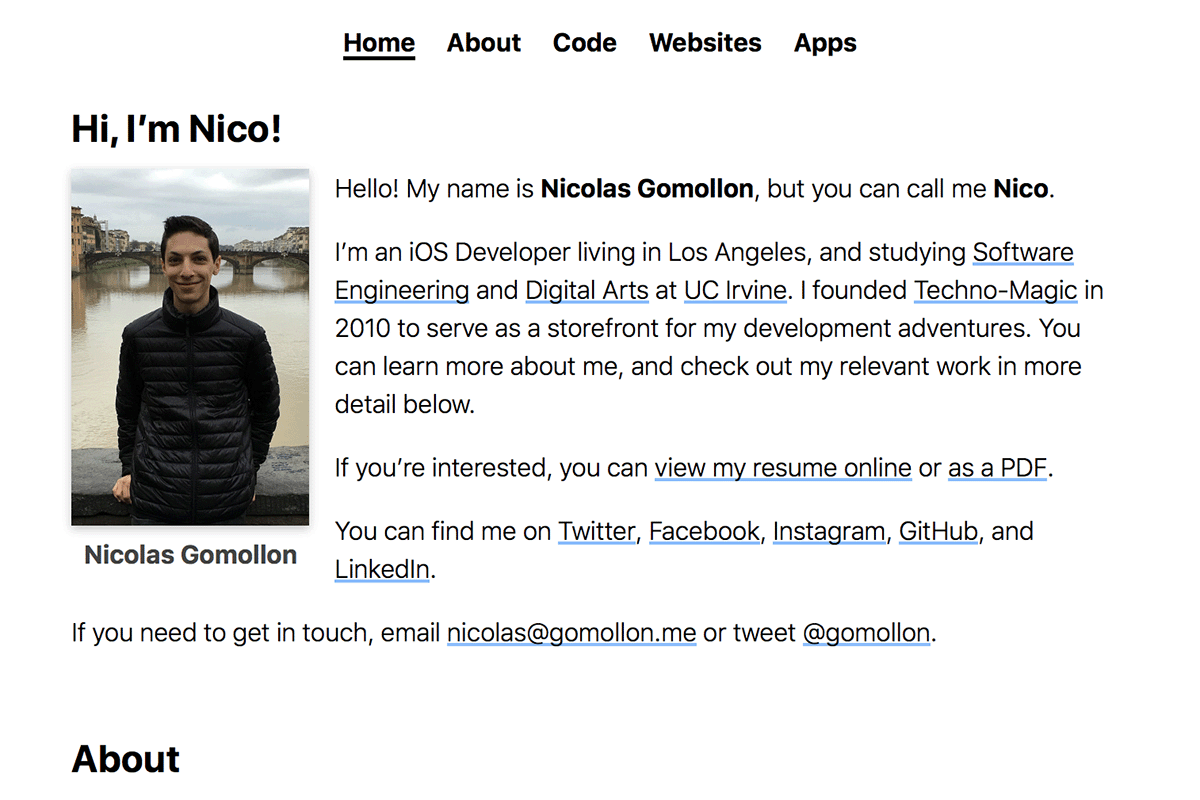
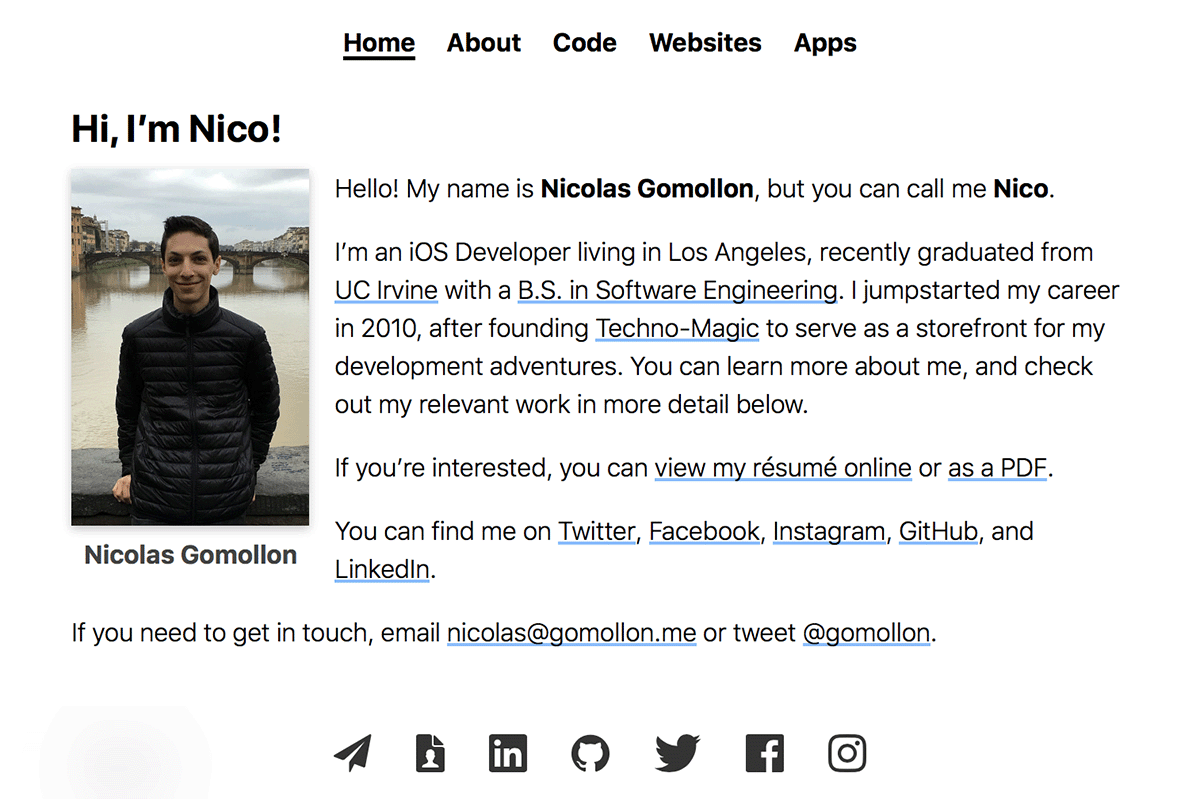
Updated my webpage.

diff --git a/nicolas/index.html b/nicolas/index.html
@@ -34,7 +34,7 @@
 				<figcaption>Nicolas Gomollon</figcaption>
 			</figure>
 			<p>Hello! My name is <strong>Nicolas Gomollon</strong>, but you can call me <strong>Nico</strong>.</p>
-			<p>I&rsquo;m an iOS Developer living in Los Angeles, and studying <a target="_blank" href="http://www.informatics.uci.edu/undergrad/bs-software-engineering/">Software Engineering</a> and <a target="_blank" href="http://sites.uci.edu/elad/minor/">Digital Arts</a> at <a target="_blank" href="http://www.uci.edu/">UC Irvine</a>. I founded <a target="_blank" href="https://techno-magic.com/">Techno-Magic</a> in 2010 to serve as a storefront for my development adventures. You can learn more about me, and check out my relevant work in more detail below.</p>
+			<p>I&rsquo;m an iOS Developer living in Los Angeles, recently graduated from <a target="_blank" href="https://uci.edu/">UC Irvine</a> with a <a target="_blank" href="http://www.informatics.uci.edu/undergrad/bs-software-engineering/">B.S. in Software Engineering</a>. I jumpstarted my career in 2010, after founding <a target="_blank" href="https://techno-magic.com/">Techno-Magic</a> to serve as a storefront for my development adventures. You can learn more about me, and check out my relevant work in more detail below.</p>
 			<p>If you&rsquo;re interested, you can <a target="_blank" href="https://nicolas.gomollon.me/resume">view my r&eacute;sum&eacute; online</a> or <a target="_blank" href="https://nicolas.gomollon.me/resume.pdf">as a PDF</a>.</p>
 			<p>You can find me on <a target="_blank" href="https://twitter.com/gomollon">Twitter</a>, <a target="_blank" href="https://www.facebook.com/nicolas.gomollon">Facebook</a>, <a target="_blank" href="https://www.instagram.com/gomollon/">Instagram</a>, <a target="_blank" href="https://github.com/nicolasgomollon">GitHub</a>, and <a target="_blank" href="https://www.linkedin.com/in/nicolasgomollon">LinkedIn</a>.</p>
 			<p>If you need to get in touch, email <a href="&#109;&#x61;&#105;&#x6c;&#116;&#x6f;&#58;&#x6e;&#105;&#x63;&#111;&#x6c;&#97;&#x73;&#64;%67%6f%6d%6f%6c%6c%6f%6e&#46;&#x6d;&#101;">&#x6e;&#105;&#x63;&#111;&#x6c;&#97;&#x73;<span class="none">local-part</span>&#64;<span class="none">domain</span>&#103;&#x6f;&#109;&#x6f;&#108;&#x6c;&#111;&#x6e;&#46;<span class="none">top-level domain</span>&#x6d;&#101;</a> or tweet <a target="_blank" href="https://twitter.com/gomollon">@gomollon</a>.</p>
@@ -44,12 +44,12 @@
 		<h2>About</h2>
 		<article>
 			<p>I started learning to develop software on my own in 2010 (at the age of 14) because I was intrigued by the touchscreen on my iPod touch, and curious about how the apps I used were made.</p>
-			<h4>I now have 7 years of experience in the field, and am pursuing a&hellip;</h4>
+			<h4>I now have 8 years of experience in the field, and a&hellip;</h4>
 			<figure class="degree">
 				<div class="aspectRatioPlaceholder">
 					<div class="aspectRatioPlaceholder-fill"></div>
 					<div class="progressiveMedia">
-						<img src="assets/vectors/Degree.svg" alt="Bachelor of Science in Software Engineering and Minor in Digital Arts at University of California, Irvine" />
+						<img src="assets/vectors/Degree.svg" alt="Bachelor of Science in Software Engineering from University of California, Irvine" />
 					</div>
 				</div>
 			</figure>
@@ -59,7 +59,7 @@
 			<h4>Since 2010, I&rsquo;ve made&hellip;</h4>
 			<div class="container">
 				<div class="app">
-					<div class="icon">15</div>
+					<div class="icon">16</div>
 					<p>Apps</p>
 				</div>
 				<div class="ampersand">&amp;</div>

diff --git a/nicolas/assets/stylesheets/style.css b/nicolas/assets/stylesheets/style.css
@@ -402,15 +402,15 @@ figure.degree {
 }
 
 figure.degree>div.aspectRatioPlaceholder {
-	max-width: 444px; max-height: 190px;
+	max-width: 444px; max-height: 238px;
 }
 
 figure.degree>div.aspectRatioPlaceholder>div.aspectRatioPlaceholder-fill {
-	padding-bottom: 42.857%;
+	padding-bottom: 53.857%;
 }
 
 figure.degree>div.aspectRatioPlaceholder>div.progressiveMedia {
[2 lines of base64/hex data omitted]
 	background-position: center center;
 	background-repeat: no-repeat;
 	background-size: 100% 100%;
